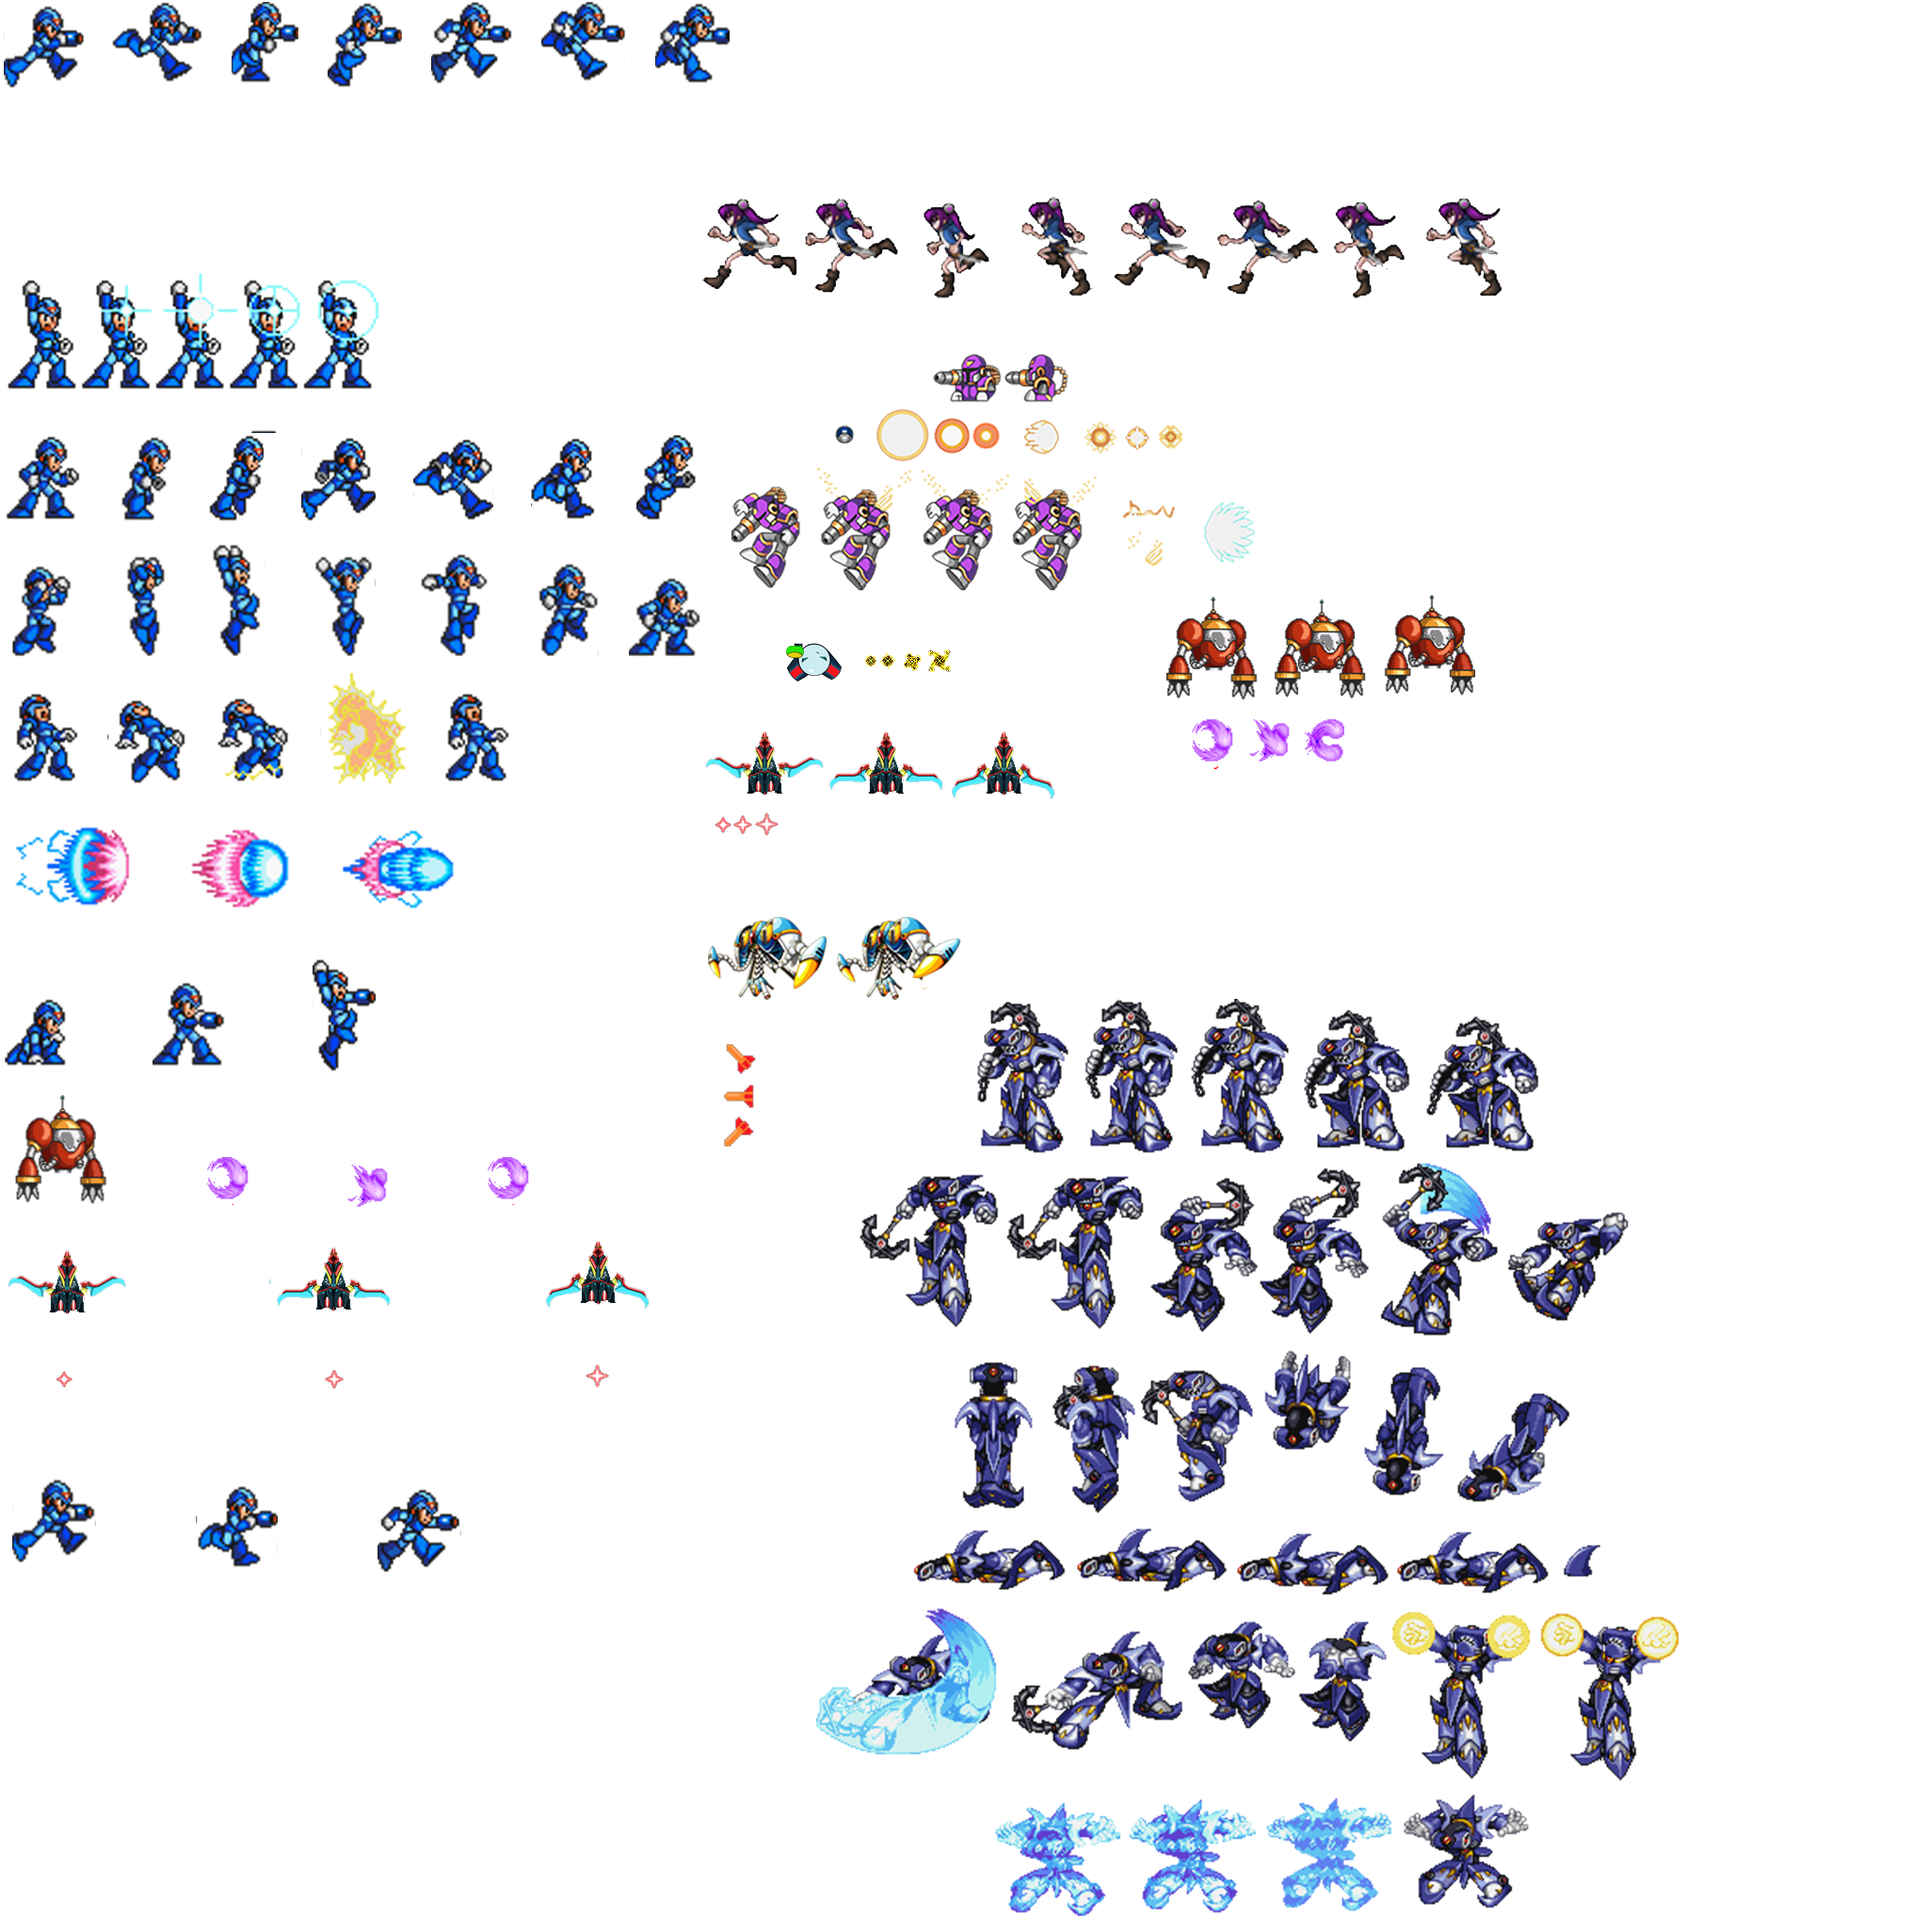
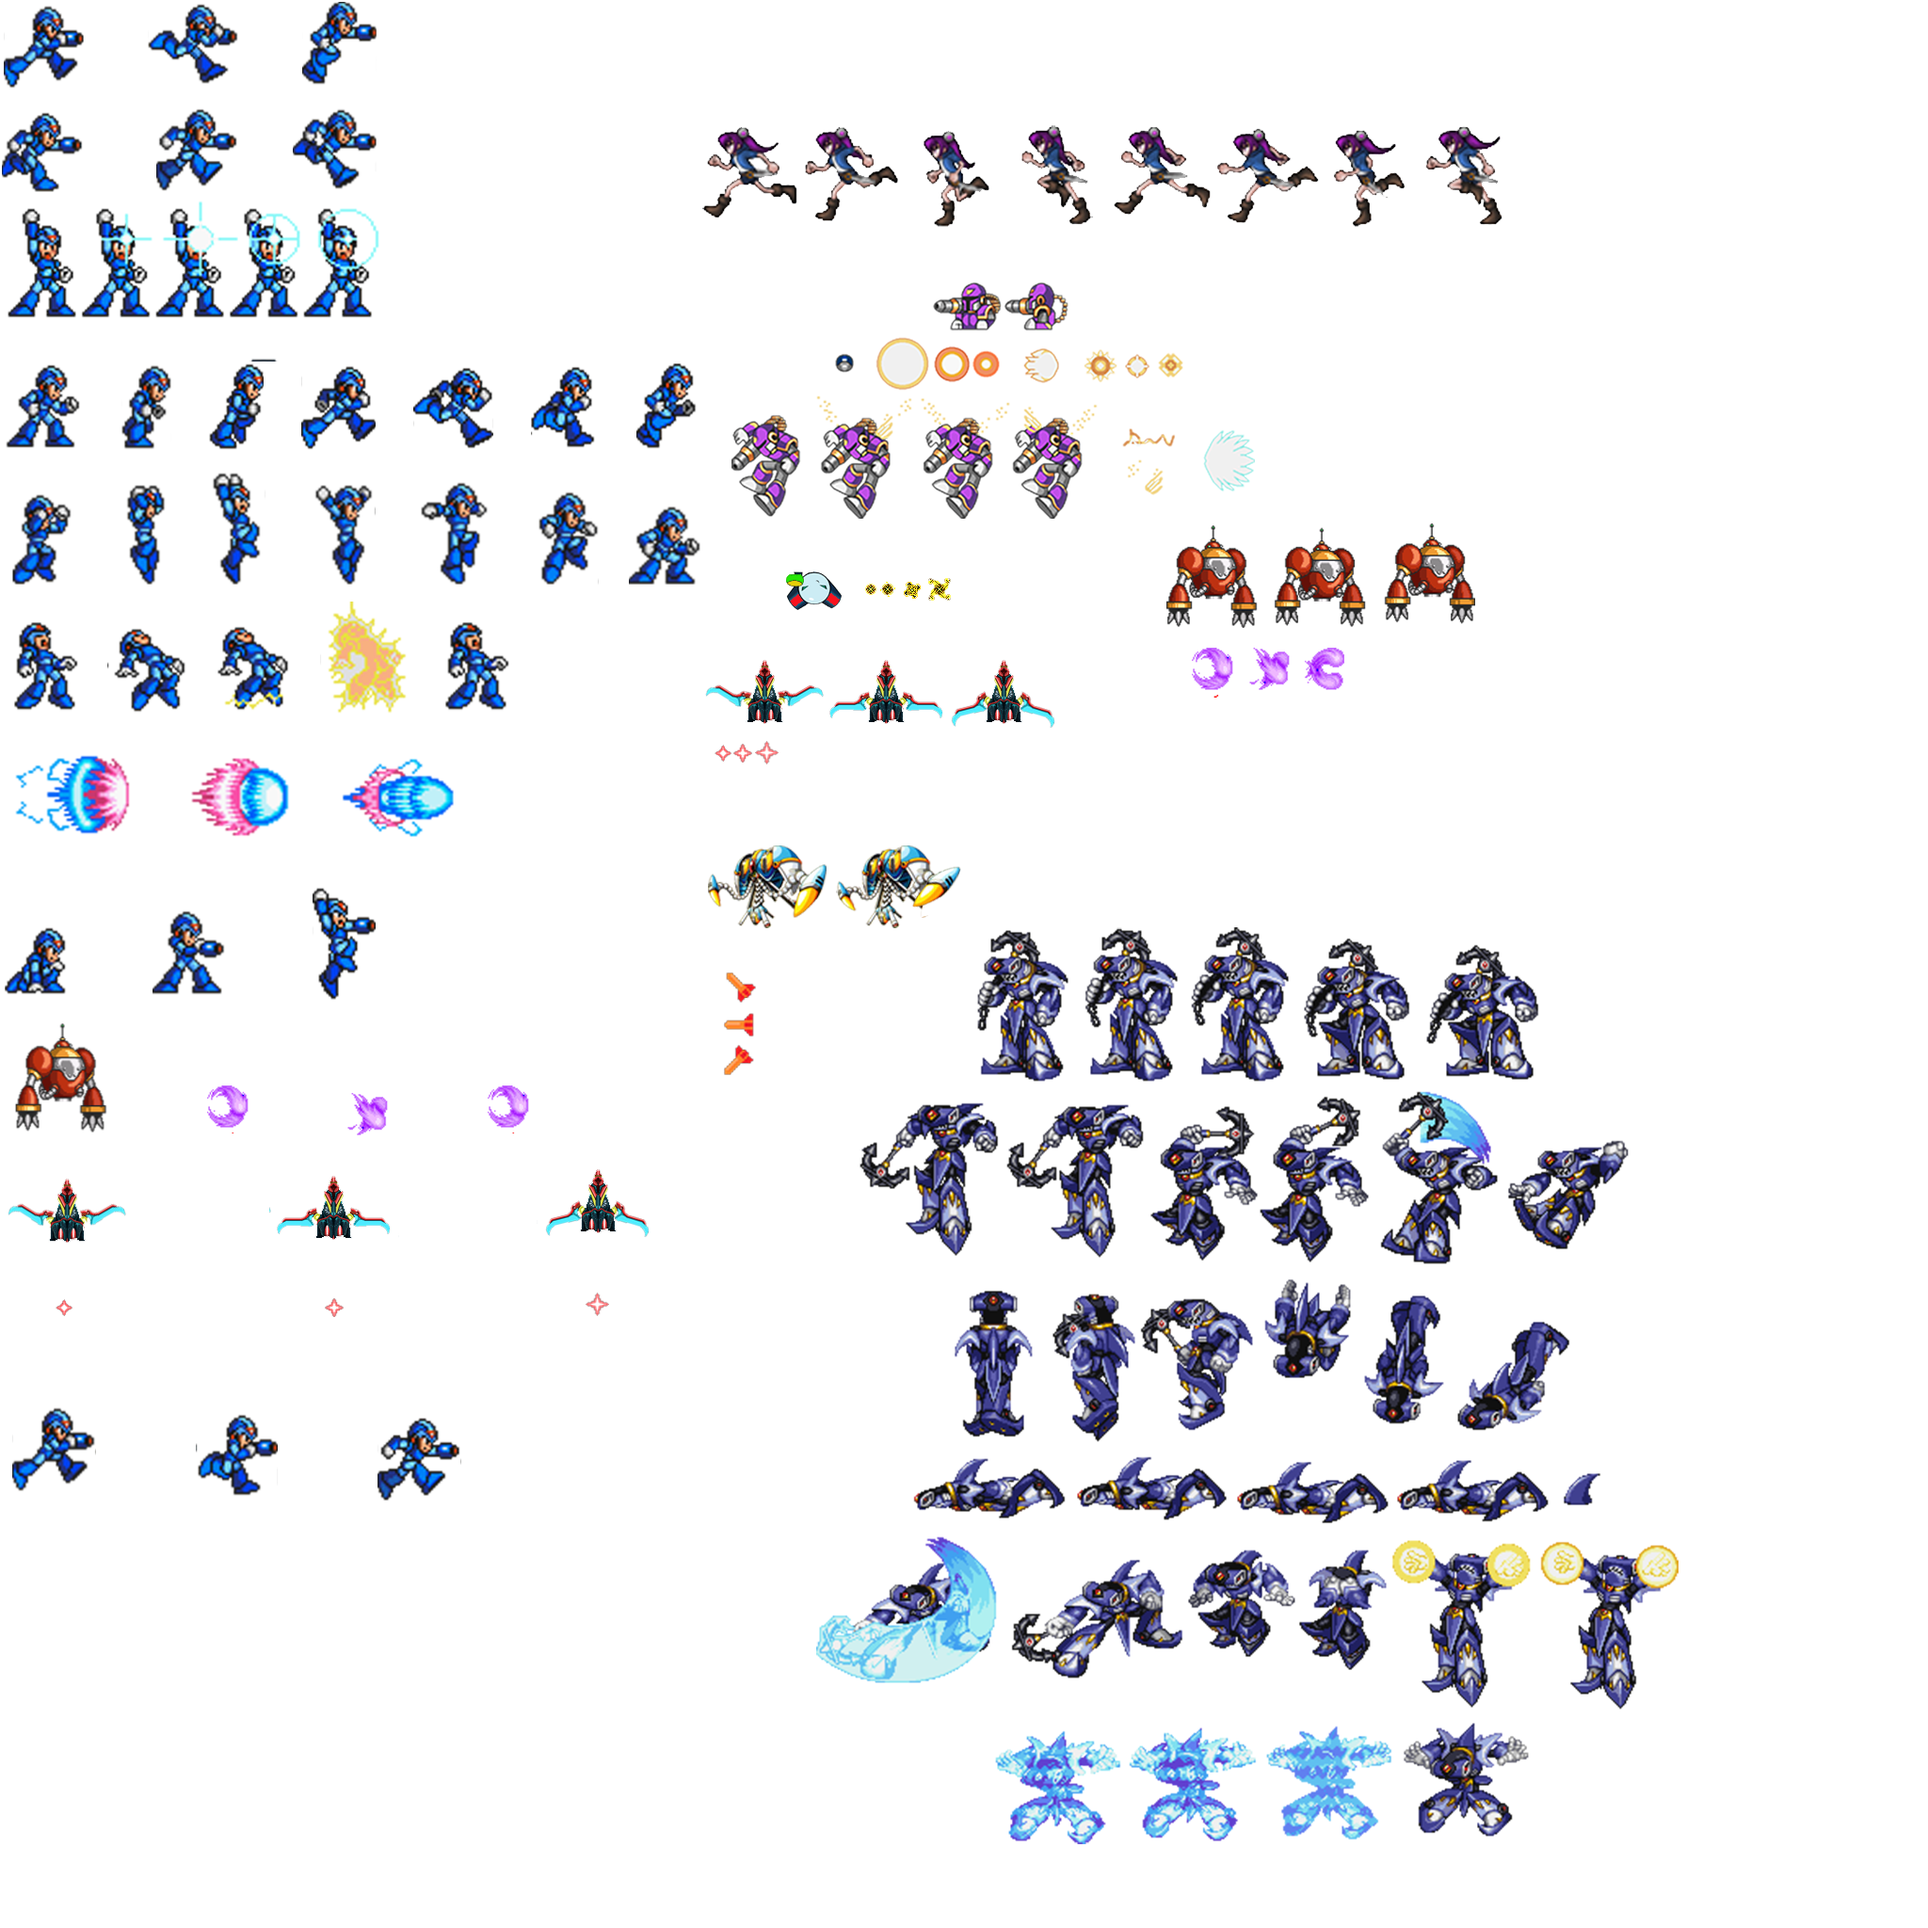
remake the sprite sheet and make shooting_while_running animation more friendly

diff --git a/core/src/com/megaman_oop/megaman/Sprites/MainCharacter.java b/core/src/com/megaman_oop/megaman/Sprites/MainCharacter.java
@@ -44,7 +44,7 @@ public class MainCharacter extends Sprite {
   private Animation<TextureRegion> megamanShootWhileRunning;
 
   private float stateTimer;
-  private static int healthBar = 5 ;
+  private static int healthBar = 5;
   private boolean runningRight;
   private boolean megamanIsDead;
 
@@ -89,18 +89,31 @@ public class MainCharacter extends Sprite {
           new TextureRegion(screen.getAtlas().findRegion("megasprite_remake"), 0, 580, 90, 110));
     megamanSit = new Animation<TextureRegion>(0.2f, frames);
     frames.clear();
-     // SHOOT WHILE RUNNING
-    for (int i = 1; i <= 3; i++)
-      frames.add(
-          new TextureRegion(
-              screen.getAtlas().findRegion("megasprite_remake"), i * 198, 1113, 90, 110));
+    // SHOOT WHILE RUNNING
+    for (int i = 0; i < 5; i++)
+      if (i >= 2)
+        frames.add(
+            new TextureRegion(
+                screen.getAtlas().findRegion("megaman_shooting_running"),
+                (i - 2) * 153,
+                110,
+                90,
+                110));
+      else
+        frames.add(
+            new TextureRegion(
+                screen.getAtlas().findRegion("megaman_shooting_running"), i * 157, 0, 90, 110));
     megamanShootWhileRunning = new Animation<TextureRegion>(0.2f, frames);
     frames.clear();
     // DEAD
-    megamanDead = new TextureRegion(screen.getAtlas().findRegion("megasprite_remake"), 0, 959, 90, 110);
+    megamanDead =
+        new TextureRegion(screen.getAtlas().findRegion("megasprite_remake"), 0, 959, 90, 110);
     // STAND
+    //    megamanStand =
+    //        new TextureRegion(screen.getAtlas().findRegion("megasprite_remake"), 0, 0, 90, 110);
     megamanStand =
-        new TextureRegion(screen.getAtlas().findRegion("megasprite_remake"), 0, 0, 90, 110);
+        new TextureRegion(
+            screen.getAtlas().findRegion("megaman_shooting_running"), 153 * 1, 110, 90, 110);
 
     // define Mega Man in Box2d
     defineMEGAMAN();
@@ -198,8 +211,8 @@ public class MainCharacter extends Sprite {
   public void shoot() {
     if (b2body.getLinearVelocity().x != 0) currentState = State.SHOOTING_WHILE_RUNNING;
     else currentState = State.SHOOTING;
-//    fireballs.add(
-//        new FireBall(screen, b2body.getPosition().x , b2body.getPosition().y, runningRight));
+    //    fireballs.add(
+    //        new FireBall(screen, b2body.getPosition().x , b2body.getPosition().y, runningRight));
   }
 
   public void die() {
@@ -237,11 +250,11 @@ public class MainCharacter extends Sprite {
   }
 
   public void hit(Enemy enemy) {
-    healthBar -=1;
-    //if(healthBar < 1){
-     //currentState = State.DEAD;
-     //die();
-    //}
+    healthBar -= 1;
+    // if(healthBar < 1){
+    // currentState = State.DEAD;
+    // die();
+    // }
   }
 
   public void defineMEGAMAN() {
@@ -267,12 +280,13 @@ public class MainCharacter extends Sprite {
     b2body.createFixture(fixtureDef).setUserData(this);
 
     EdgeShape head = new EdgeShape();
-    head.set(new Vector2(-2 /MegaMan.PPM, 6 / MegaMan.PPM), new Vector2(2 / MegaMan.PPM, 6 / MegaMan.PPM));
+    head.set(
+        new Vector2(-2 / MegaMan.PPM, 6 / MegaMan.PPM),
+        new Vector2(2 / MegaMan.PPM, 6 / MegaMan.PPM));
     fixtureDef.filter.categoryBits = MegaMan.MEGAMAN_HEAD_BIT;
     fixtureDef.shape = head;
     fixtureDef.isSensor = true;
     b2body.createFixture(fixtureDef).setUserData(this);
-
   }
 
   public void setCurrentState(State currentState) {
